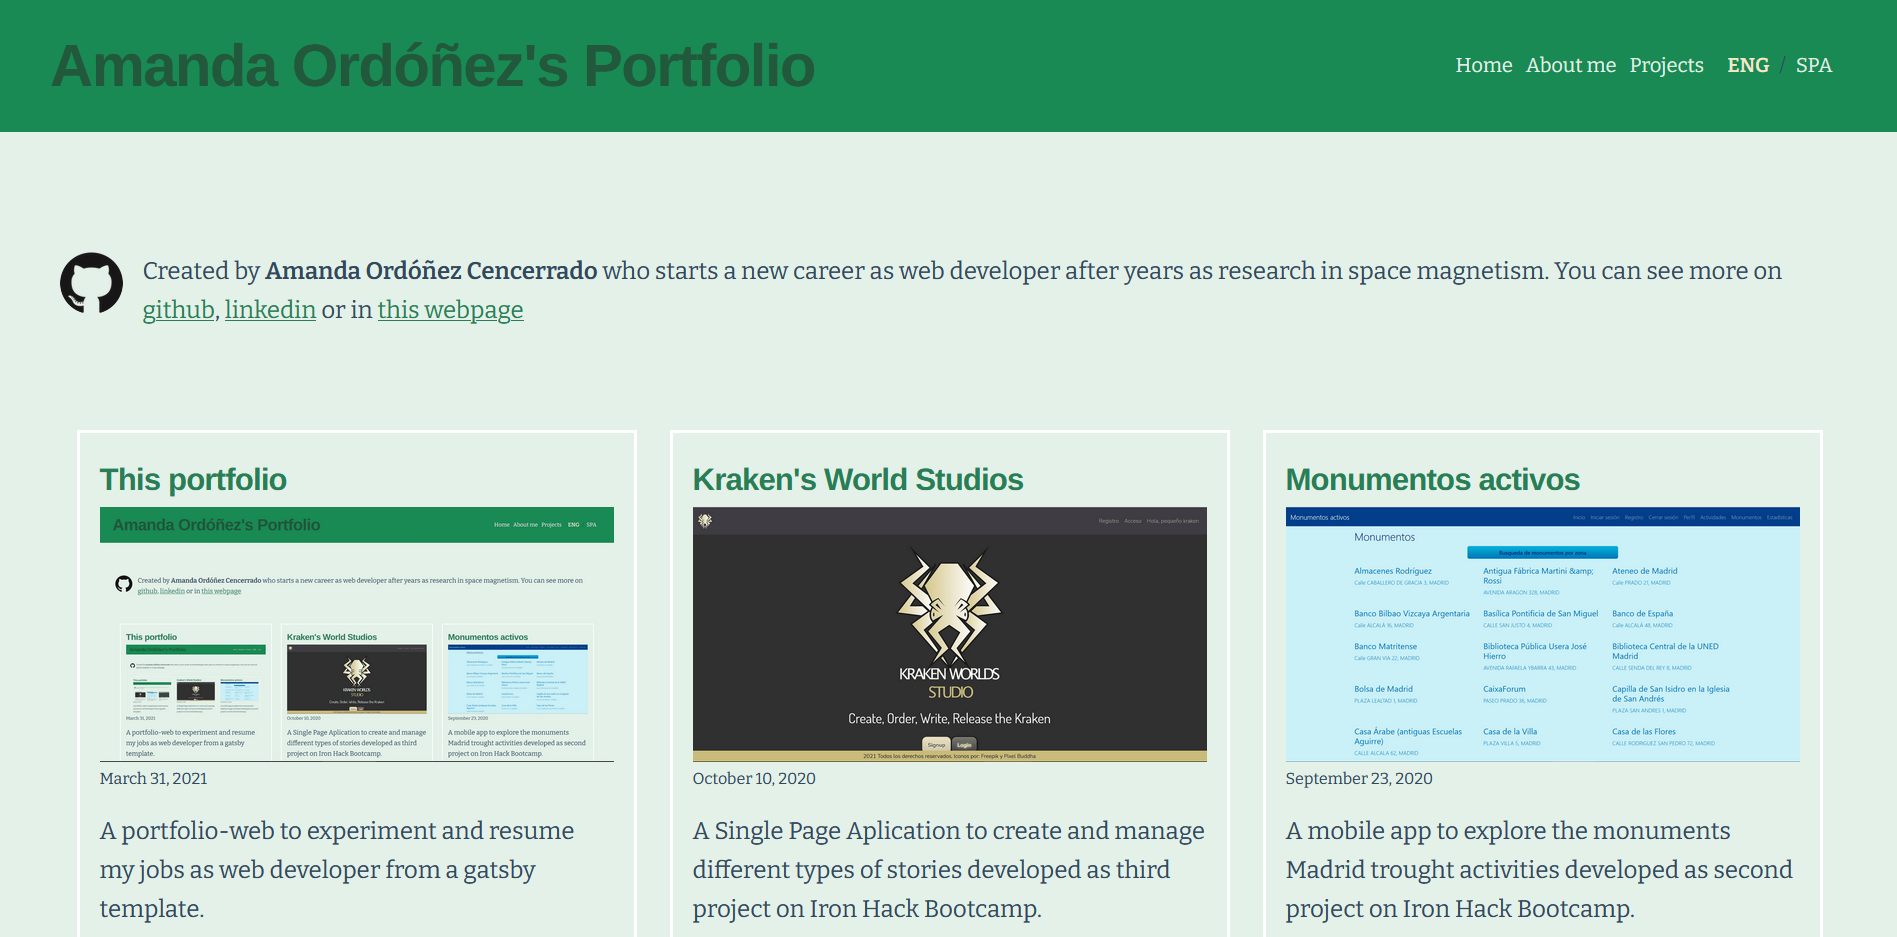
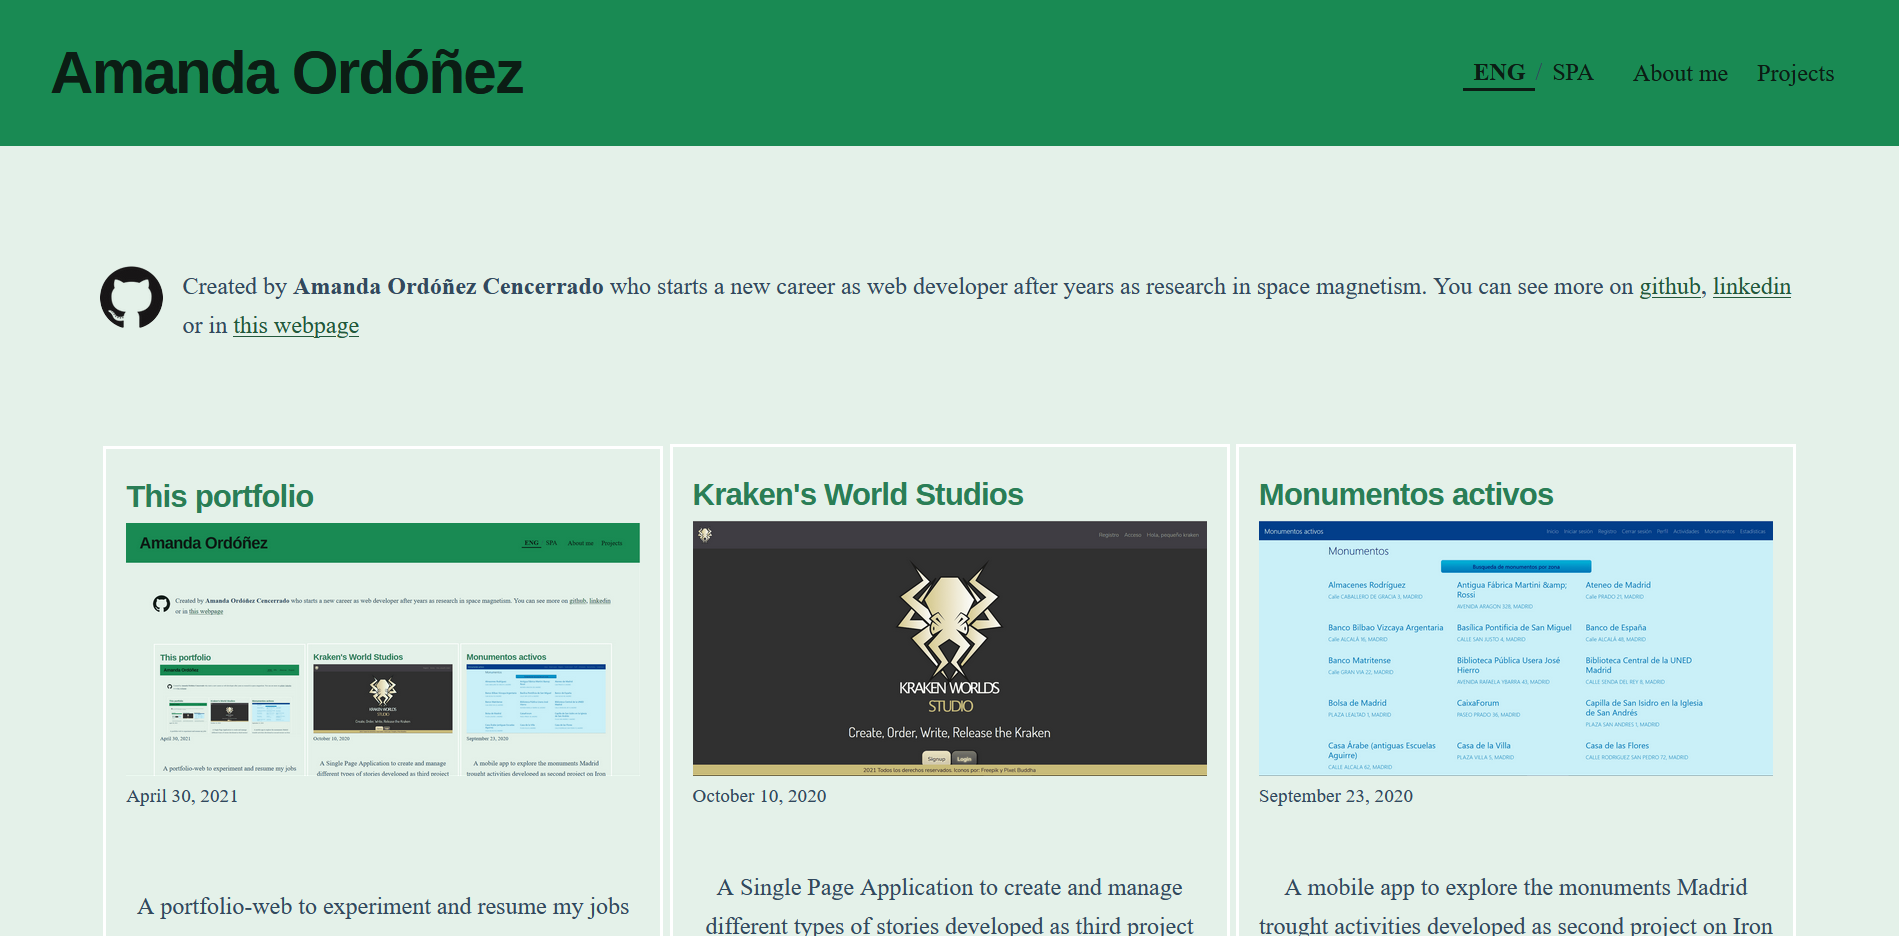
fix minor bugs

Changed region(s): [[0.0311, 0.4647, 0.9642, 1.0], [0.0, 0.031, 1.0, 0.1549], [0.0311, 0.2479, 0.9642, 0.3718]]

diff --git a/src/components/navbar.js b/src/components/navbar.js
@@ -41,23 +41,23 @@ const Navbar = () => {
                                     onClick={lang.toggleLang}
                                 >{lang.defaultLang ? 'SPA' : 'ESP'}</button></li>
                                 </ul>
-                                
-                                    <button className='toggle'
+
+                                <button className='toggle'
                                     navbaropen={navbarOpen ? 1 : 0}
-                                        onClick={() => setNavbarOpen(!navbarOpen)}
-                                    >
-                                        <nav >
-                                            <Image fixed={burguer} className='burguer' />
-                                            
-                                            {navbarOpen ? (
-                                                <ul>
-                                                    <li><Link to="/CV/#bio-extend"> {lang.defaultLang ? "About me" : "Sobre mi"}</Link></li>
-                                                    <li><Link to="/#projects">{lang.defaultLang ? 'Projects' : 'Proyectos'}</Link></li>
-                                                </ul>
-                                            ) : <ul className='hide'></ul>}
-                                            
-                                        </nav>
-                                    </button>
+                                    onClick={() => setNavbarOpen(!navbarOpen)}
+                                >
+                                    <nav >
+                                        <Image fixed={burguer} className='burguer' />
+
+                                        {navbarOpen ? (
+                                            <ul>
+                                                <li><Link to="/CV/#bio-extend"> {lang.defaultLang ? "About me" : "Sobre mi"}</Link></li>
+                                                <li><Link to="/#projects">{lang.defaultLang ? 'Projects' : 'Proyectos'}</Link></li>
+                                            </ul>
+                                        ) : <ul className='hide'></ul>}
+
+                                    </nav>
+                                </button>
                             </div>)
                             :
                             (

diff --git a/src/components/layout.js b/src/components/layout.js
@@ -14,7 +14,7 @@ const Layout = ({ location, title, children, lang }) => {
   const isRootPath = location.pathname === rootPath
   let header
 
-
+  
 
   if (isRootPath) {
     header = (
@@ -46,7 +46,7 @@ const Layout = ({ location, title, children, lang }) => {
     <div className="global-wrapper" data-is-root-path={isRootPath}>
       <Helmet>
         <meta charSet="utf-8" />
-        <title>{title}</title>
+        <title>Amanda Ordóñez's Portfolio</title>
         <link rel="preconnect" href="https://fonts.gstatic.com" />
         <link href="https://fonts.googleapis.com/css2?family=Arimo:wght@400;500;600;700&family=Bitter:ital,wght@0,300;0,400;0,600;1,400;1,600&display=swap" rel="stylesheet" />
       </Helmet>
@@ -56,7 +56,7 @@ const Layout = ({ location, title, children, lang }) => {
         <Scroll showBelow={150} />
       </main>
       <footer>
-        © {new Date().getFullYear()}, by Amanda Ordóñez. Built with <a href="https://www.gatsbyjs.com">Gatsby</a> 
+        © {new Date().getFullYear()}, by Amanda Ordóñez. Built with Gatsby.
       </footer>
     </div>
         

diff --git a/src/style.css b/src/style.css
@@ -81,7 +81,7 @@ html {
 
 body {
   font-family: var(--font-body);
-  font-size: var(--fontSize-1);
+  font-size: var(--fontSize-2);
   color: var(--charcoal);
   background-color: var(--mint-cream);
 }
@@ -98,9 +98,7 @@ footer {
   color: var(--mint-cream);
   background-color: var(--castleton-green);
   grid-area: footer;
-  display: flex;
-  justify-content: center;
-  align-items: center;
+  text-align: center;
 }
 footer > a{
   color: var(--silver-sand);
@@ -138,7 +136,7 @@ h5 {
 h1 {
   font-weight: var(--fontWeight-black);
   font-size: var(--fontSize-6);
-  color: var(--dark-jungle-green);
+  color: var(--castleton-green);
 }
 
 h2 {
@@ -309,6 +307,7 @@ height: 90vw;
   font-size: var(--fontSize-7);
   margin: 0;
   padding-right: 8px;
+  color: var(--dark-jungle-green)
 }
 
 .post-list-item {
@@ -439,7 +438,6 @@ nav li, .lang li {
 nav a {
   color:var(--dark-jungle-green);
   text-decoration: none;
-  font-size: var(--fontSize-1);
   line-height: var(--lineHeight-relaxed);
 }
 .burguer{

diff --git a/gatsby-config.js b/gatsby-config.js
@@ -22,9 +22,6 @@ module.exports = {
     },
     keywords: ["portfolio", "html", "css", "js", "react", "front-end", "back-end"]
   },
-  flags: {
-    DEV_SSR: false,
-  },
   plugins: [
     {
       resolve: "gatsby-plugin-breakpoints",
@@ -49,8 +46,7 @@ module.exports = {
     {
       resolve: `gatsby-transformer-remark`,
       options: {
-        plugins: [
-          {
+        plugins: [{
             resolve: `gatsby-remark-image-attributes`,
             options: {
 

diff --git a/src/context/LangContext.js b/src/context/LangContext.js
@@ -19,14 +19,7 @@ class LangProvider extends React.Component {
         this.setState({ defaultLang })
     }
 
-    componentDidMount() {
-        // Getting default value from localStorage!
-        const lslang = JSON.parse(localStorage.getItem("defaultLang"))
-        if (lslang) {
-            this.setState({ defaultLang: lslang })
-        } 
-             }
-
+   
     render() {
         const { children } = this.props
         const { defaultLang } = this.state

diff --git a/src/components/postlist.js b/src/components/postlist.js
@@ -40,7 +40,7 @@ const PostList = ({ data, lang }) => {
                     const regex = /[$^/\\]/g;
                     const slugName = post.fields.slug.substring(1)
                     const globalSlug = post.fields.slug.substring(0, slugName.search(regex) + 2)
-                   
+                    
                     return (
                         <li key={globalSlug}>
                             <article

diff --git a/src/components/blog.js b/src/components/blog.js
@@ -24,7 +24,7 @@ const Blog = ({ posts, lang }) => {
         date = template.replace(/#(\w+)/g, match => months[month] || match);
     }
 
-
+    
 
     return (
         <>

diff --git a/README.md b/README.md
@@ -1,99 +1,1 @@
-<!-- AUTO-GENERATED-CONTENT:START (STARTER) -->
-<p align="center">
-  <a href="https://www.gatsbyjs.com">
-    <img alt="Gatsby" src="https://www.gatsbyjs.com/Gatsby-Monogram.svg" width="60" />
-  </a>
-</p>
-<h1 align="center">
-  Gatsby's blog starter
-</h1>
-
-Kick off your project with this blog boilerplate. This starter ships with the main Gatsby configuration files you might need to get up and running blazing fast with the blazing fast app generator for React.
-
-_Have another more specific idea? You may want to check out our vibrant collection of [official and community-created starters](https://www.gatsbyjs.com/docs/gatsby-starters/)._
-
-## 🚀 Quick start
-
-1.  **Create a Gatsby site.**
-
-    Use the Gatsby CLI to create a new site, specifying the blog starter.
-
-    ```shell
-    # create a new Gatsby site using the blog starter
-    gatsby new my-blog-starter https://github.com/gatsbyjs/gatsby-starter-blog
-    ```
-
-1.  **Start developing.**
-
-    Navigate into your new site’s directory and start it up.
-
-    ```shell
-    cd my-blog-starter/
-    gatsby develop
-    ```
-
-1.  **Open the source code and start editing!**
-
-    Your site is now running at `http://localhost:8000`!
-
-    _Note: You'll also see a second link: _`http://localhost:8000/___graphql`_. This is a tool you can use to experiment with querying your data. Learn more about using this tool in the [Gatsby tutorial](https://www.gatsbyjs.com/tutorial/part-five/#introducing-graphiql)._
-
-    Open the `my-blog-starter` directory in your code editor of choice and edit `src/pages/index.js`. Save your changes and the browser will update in real time!
-
-## 🧐 What's inside?
-
-A quick look at the top-level files and directories you'll see in a Gatsby project.
-
-    .
-    ├── node_modules
-    ├── src
-    ├── .gitignore
-    ├── .prettierrc
-    ├── gatsby-browser.js
-    ├── gatsby-config.js
-    ├── gatsby-node.js
-    ├── gatsby-ssr.js
-    ├── LICENSE
-    ├── package-lock.json
-    ├── package.json
-    └── README.md
-
-1.  **`/node_modules`**: This directory contains all of the modules of code that your project depends on (npm packages) are automatically installed.
-
-2.  **`/src`**: This directory will contain all of the code related to what you will see on the front-end of your site (what you see in the browser) such as your site header or a page template. `src` is a convention for “source code”.
-
-3.  **`.gitignore`**: This file tells git which files it should not track / not maintain a version history for.
-
-4.  **`.prettierrc`**: This is a configuration file for [Prettier](https://prettier.io/). Prettier is a tool to help keep the formatting of your code consistent.
-
-5.  **`gatsby-browser.js`**: This file is where Gatsby expects to find any usage of the [Gatsby browser APIs](https://www.gatsbyjs.com/docs/browser-apis/) (if any). These allow customization/extension of default Gatsby settings affecting the browser.
-
-6.  **`gatsby-config.js`**: This is the main configuration file for a Gatsby site. This is where you can specify information about your site (metadata) like the site title and description, which Gatsby plugins you’d like to include, etc. (Check out the [config docs](https://www.gatsbyjs.com/docs/gatsby-config/) for more detail).
-
-7.  **`gatsby-node.js`**: This file is where Gatsby expects to find any usage of the [Gatsby Node APIs](https://www.gatsbyjs.com/docs/node-apis/) (if any). These allow customization/extension of default Gatsby settings affecting pieces of the site build process.
-
-8.  **`gatsby-ssr.js`**: This file is where Gatsby expects to find any usage of the [Gatsby server-side rendering APIs](https://www.gatsbyjs.com/docs/ssr-apis/) (if any). These allow customization of default Gatsby settings affecting server-side rendering.
-
-9.  **`LICENSE`**: This Gatsby starter is licensed under the 0BSD license. This means that you can see this file as a placeholder and replace it with your own license.
-
-10. **`package-lock.json`** (See `package.json` below, first). This is an automatically generated file based on the exact versions of your npm dependencies that were installed for your project. **(You won’t change this file directly).**
-
-11. **`package.json`**: A manifest file for Node.js projects, which includes things like metadata (the project’s name, author, etc). This manifest is how npm knows which packages to install for your project.
-
-12. **`README.md`**: A text file containing useful reference information about your project.
-
-## 🎓 Learning Gatsby
-
-Looking for more guidance? Full documentation for Gatsby lives [on the website](https://www.gatsbyjs.com/). Here are some places to start:
-
-- **For most developers, we recommend starting with our [in-depth tutorial for creating a site with Gatsby](https://www.gatsbyjs.com/tutorial/).** It starts with zero assumptions about your level of ability and walks through every step of the process.
-
-- **To dive straight into code samples, head [to our documentation](https://www.gatsbyjs.com/docs/).** In particular, check out the _Guides_, _API Reference_, and _Advanced Tutorials_ sections in the sidebar.
-
-## 💫 Deploy
-
-[![Deploy to Netlify](https://www.netlify.com/img/deploy/button.svg)](https://app.netlify.com/start/deploy?repository=https://github.com/gatsbyjs/gatsby-starter-blog)
-
-[![Deploy with Vercel](https://vercel.com/button)](https://vercel.com/import/project?template=https://github.com/gatsbyjs/gatsby-starter-blog)
-
-<!-- AUTO-GENERATED-CONTENT:END -->
+My portfolio using gatsby. You can visit and read more on

diff --git a/content/blog/portfolio/index-es.md b/content/blog/portfolio/index-es.md
@@ -5,16 +5,16 @@ description: Portfolio
 summary: Un portfolio web para experimentar con Gatsby y recopilar mis trabajos como desarrolladora web usando una plantilla de Gatsby.
 keywords: [Gatsby, Markdown, CSS3]
 featuredimage:
-  src: "./start-es.PNG"
+  src: "./recursive-es1.PNG"
   alt: "The home page"
 defaultLang: SPA
 cv: false
 ---
-Este *portfolio* es otro proyecto. En un curso sobre React aprendí sobre Gatsby y quise probar por mi cuenta como funcionaba este *framework*. He usado como plantilla [Gatsby Starter Blog](https://www.gatsbyjs.com/starters/gatsbyjs/gatsby-starter-blog) para tener una base desde la que hacer el desarrollo de *front end*. Me gusta trabajar con una base ya hecha de la interfaz para poder centrarme en el desarrollo de otros elementos, como la parte interna o escoger una paleta de colores que no sea una combinación de blanco-negro para evitar el modo nocturno. Para esto último he usado la web de [coolors.co](coolors.co) para tener una paleta limitada que se ajuste a lo que busco (sin grandes contrastes entre oscuro y claro y apto para daltónicos).
+Este *portfolio* es otro proyecto. En un curso sobre React aprendí sobre Gatsby y quise probar por mi cuenta como funcionaba este *framework*. He usado como plantilla [Gatsby Starter Blog](https://www.gatsbyjs.com/starters/gatsbyjs/gatsby-starter-blog) para tener una base desde la que hacer el desarrollo de *front end*. Me gusta trabajar con una base ya hecha de la interfaz para poder centrarme en el desarrollo de otros elementos, como la parte interna o escoger una paleta de colores que no sea una combinación de blanco-negro para evitar el modo nocturno. Para esto último he usado la web de [coolors.co](https://coolors.co/) para tener una paleta limitada que se ajuste a lo que busco (sin grandes contrastes entre oscuro y claro y apto para daltónicos).
 
 Escogí la plantilla de Gatsby Starter Blog frente a la elección lógica del portfolio dev ya que este usaba un CMS externo para crear los posts y yo ya había trabajado de esta forma en el curso que he mencionado. Esta plantilla en cambio trabaja usando Markdown, lo que me permitía experimentar nuevas tecnologías y aprender de ellas. He usado la plantilla del portfolio dev como guía para desarrollar este portfolio porque si algo funciona no lo arregles
 
-![The home page](./recursive-es3.PNG)*La página de inicio donde se ve la página de inicio en la página de inic...*
+![The home page](./recursive-es3.PNG)*La página de inicio que muestra la página de inicio que muestra...*
 
 Un elemento que quise añadir es un cambio de idioma, entre español e inglés. Por mis estudios y trabajo, estoy acostumbrada a escribir y trabajar en inglés, pero el castellano sigue siendo mi lengua materna y la que uso en mi día a día. Así que por eso decidí que el portfolio tendría para intercambiar entre ambos idiomas además de permitirme expertimentar como hacer un sitio web multilingüe.
 

diff --git a/content/blog/portfolio/index-en.md b/content/blog/portfolio/index-en.md
@@ -5,12 +5,12 @@ description: Portfolio
 summary: A portfolio-web to experiment and resume my jobs as web developer using a gatsby template.
 keywords: [Gatsby, Markdown, CSS3]
 featuredimage:
-  src: "./start-en.PNG"
+  src: "./recursive-en1.PNG"
   alt: "The home page"
 defaultLang: ENG
 cv: false
 ---
-From a React's Course, I learned about Gatsby, and I wanted to work on my own with the framework. I used a template from the gatsby web page to have a base with the front-end. I like to work with front-end libraries like boostrap to focus on the development of others elements before than general structure and distribution. One of these elements is the color scheme. I choosed a color scheme without big contrast between dark and light colors to avoid a dark mode and that be suitable for colour blind people. I used [coolors.co](coolors.co) as always.
+From a React's Course, I learned about Gatsby, and I wanted to work on my own with the framework. I used a template from the gatsby web page to have a base with the front-end. I like to work with front-end libraries like boostrap to focus on the development of others elements before than general structure and distribution. One of these elements is the color scheme. I choosed a color scheme without big contrast between dark and light colors to avoid a dark mode and that be suitable for colour blind people. I used [coolors.co](https://coolors.co/) as always.
 
 I choosed the gatsby-blog template, not the portfolio-dev because this work using an external CMS and I already worked with one on the course. The gastby blog works with the Markdown technology and I was curious about them and I thought that was a great opportunity to wrk with it. However, I used the portfolio as base for the structure, because if it ain't broken don't fix it.
 

diff --git a/content/blog/CV/index-es.md b/content/blog/CV/index-es.md
@@ -7,6 +7,7 @@ keywords: [CV, desarrollo web, física]
 defaultLang: SPA
 cv: true
 ---
+
 <div id='index'><div>
 
 Índice: 

diff --git a/content/blog/CV/index-en.md b/content/blog/CV/index-en.md
@@ -7,6 +7,7 @@ keywords: [CV, web developer, physicist]
 defaultLang: ENG
 cv: true
 ---
+
 <div id='index'></div>
 
 Index:
